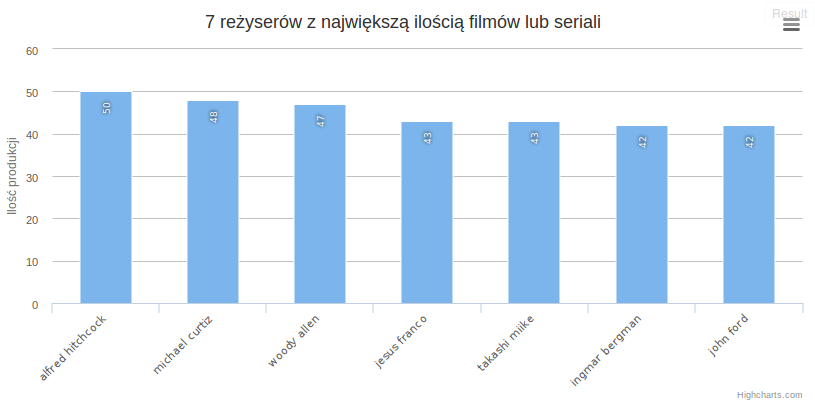
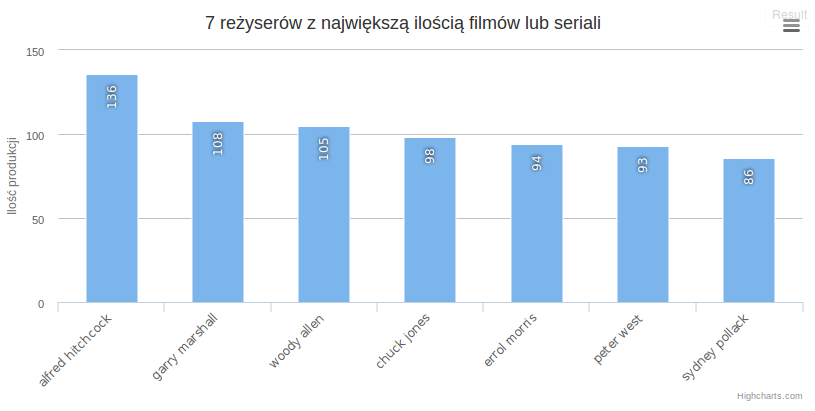
fixed 2nd aggregation

diff --git a/agg2.js b/agg2.js
@@ -1,7 +1,16 @@
 var connection = new Mongo();
 var db = connection.getDB('getglue');
 
-var match = { $match: {"modelName": "movies" || "tv_shows", $and: [{"director": {$ne: "not available"}}, {"director": {$ne: "various directors"}}]} };
+var match = {
+	$match: {
+		$or: [{"modelName": "movies"}, {"modelName": "tv_shows"}],
+		$and: [
+			{"director": {$ne: "not available"}},
+			{"director": {$ne: "various directors"}},
+			{"director": {$ne: null}}
+		]
+	}
+};
 var group1 = { $group: {"_id": {"director": "$director", "title": "$title"}, "total": {$sum: 1}} };
 var group2 = { $group: {"_id": "$_id.director", "total": {$sum: 1}} };
 var sort = { $sort: {total: -1} };

diff --git a/agg2.php b/agg2.php
@@ -2,31 +2,39 @@
 
 $connection = new MongoClient;
 $collection = $connection -> selectDB("getglue") -> selectCollection("gg");
+MongoCursor::$timeout = -1;
 
-$out = $collection -> aggregate(
-   array(
-      '$match' => array('modelName' => array('$or' => array('modelName' => 'movies', 'modelName' => 'tv_shows')))
-   ),
-   array(
-      '$group' => array(
-         '_id' => array('dir' => '$director', 'id': '$title'),
-         'total' => array('$sum' => 1)
+$match = array(
+   '$match' => array(
+      '$or' => array(
+         array('modelName' => 'movies'),
+         array('modelName' => 'tv_shows')
+      ),
+      '$and' => array(
+         array('director' => array('$ne' => 'not available')),
+         array('director' => array('$ne' => 'various directors')),
+         array('director' => array('$ne' => null))
       )
-   ),
-   array(
-      '$group' => array(
-         '_id' => '$_id.dir',
-         'total' => array('$sum' => 1)
-      )
-   ),
-   array(
-   	'sort' => array('$total' => -1)
-   ),
-   array(
-   	'limit' => 7
    )
 );
+$group1 = array(
+   '$group' => array(
+      '_id' => array('director' => '$director', 'title' => '$title'),
+      'total' => array('$sum' => 1)
+   )
+);
+$group2 = array(
+   '$group' => array(
+      '_id' => '$_id.director',
+      'total' => array('$sum' => 1)
+   )
+);
+$sort = array('$sort' => array('total' => -1));
+$limit = array('$limit' => 7);
+$pipeline = array($match, $group1, $group2, $sort, $limit);
 
-echo json_encode($out);
+$out = $collection -> aggregate($pipeline);
+
+echo json_encode($out, JSON_PRETTY_PRINT);
 
 ?>

diff --git a/README.md b/README.md
@@ -7,7 +7,7 @@
 
 #Wstęp
 
-Plik z danymi: [GetGlue and Timestamped Event Data](http://getglue-data.s3.amazonaws.com/getglue_sample.tar.gz)
+Plik z danymi: [GetGlue and Timestamped Event Data](http://getglue-data.s3.amazonaws.com/getglue_sample.tar.gz)<br>
 Wykresy wygenerowane za pomocą [Highcharts](http://www.highcharts.com)
 
 Import danych do bazy:
@@ -99,7 +99,16 @@ Wynik
 7 reżyserów z największą ilością filmów lub seriali<br>
 [JS](https://github.com/psynowczyk/tnosql2/blob/master/agg2.js)
 ```js
-var match = { $match: {"modelName": "movies" || "tv_shows", $and: [{"director": {$ne: "not available"}}, {"director": {$ne: "various directors"}}]} };
+var match = {
+	$match: {
+		$or: [{"modelName": "movies"}, {"modelName": "tv_shows"}],
+		$and: [
+			{"director": {$ne: "not available"}},
+			{"director": {$ne: "various directors"}},
+			{"director": {$ne: null}}
+		]
+	}
+};
 var group1 = { $group: {"_id": {"director": "$director", "title": "$title"}, "total": {$sum: 1}} };
 var group2 = { $group: {"_id": "$_id.director", "total": {$sum: 1}} };
 var sort = { $sort: {total: -1} };
@@ -115,29 +124,36 @@ var results = db.gg.aggregate(
 ```
 [PHP](https://github.com/psynowczyk/tnosql2/blob/master/agg2.php)
 ```php
-$out = $collection -> aggregate(
-   array(
-      '$match' => array('modelName' => array('$or' => array('modelName' => 'movies', 'modelName' => 'tv_shows')))
-   ),
-   array(
-      '$group' => array(
-         '_id' => array('dir' => '$director', 'id': '$title'),
-         'total' => array('$sum' => 1)
+$match = array(
+   '$match' => array(
+      '$or' => array(
+         array('modelName' => 'movies'),
+         array('modelName' => 'tv_shows')
+      ),
+      '$and' => array(
+         array('director' => array('$ne' => 'not available')),
+         array('director' => array('$ne' => 'various directors')),
+         array('director' => array('$ne' => null))
       )
-   ),
-   array(
-      '$group' => array(
-         '_id' => '$_id.dir',
-         'total' => array('$sum' => 1)
-      )
-   ),
-   array(
-   	'sort' => array('$total' => -1)
-   ),
-   array(
-   	'limit' => 7
    )
 );
+$group1 = array(
+   '$group' => array(
+      '_id' => array('director' => '$director', 'title' => '$title'),
+      'total' => array('$sum' => 1)
+   )
+);
+$group2 = array(
+   '$group' => array(
+      '_id' => '$_id.director',
+      'total' => array('$sum' => 1)
+   )
+);
+$sort = array('$sort' => array('total' => -1));
+$limit = array('$limit' => 7);
+$pipeline = array($match, $group1, $group2, $sort, $limit);
+
+$out = $collection -> aggregate($pipeline);
 ```
 Wynik
 ```js
@@ -145,45 +161,45 @@ Wynik
 	"result" : [
 		{
 			"_id" : "alfred hitchcock",
-			"total" : 50
+			"total" : 136
 		},
 		{
-			"_id" : "michael curtiz",
-			"total" : 48
+			"_id" : "garry marshall",
+			"total" : 108
 		},
 		{
 			"_id" : "woody allen",
-			"total" : 47
+			"total" : 105
 		},
 		{
-			"_id" : "jesus franco",
-			"total" : 43
+			"_id" : "chuck jones",
+			"total" : 98
 		},
 		{
-			"_id" : "takashi miike",
-			"total" : 43
+			"_id" : "errol morris",
+			"total" : 94
 		},
 		{
-			"_id" : "ingmar bergman",
-			"total" : 42
+			"_id" : "peter west",
+			"total" : 93
 		},
 		{
-			"_id" : "john ford",
-			"total" : 42
+			"_id" : "sydney pollack",
+			"total" : 86
 		}
 	],
 	"ok" : 1
 }
 ```
-| Reżyser                                       | Ilość dzieł |
-|-----------------------------------------------|-------------|
-| alfred hitchcock                              | 50          |
-| michael curtiz                                | 48          |
-| woody allen                                   | 47          |
-| jesus franco                                  | 43          |
-| takashi miike                                 | 43          |
-| ingmar bergman                                | 42          |
-| john ford                                     | 42          |
+| Reżyser                                       | Ilość produkcji |
+|-----------------------------------------------|-----------------|
+| alfred hitchcock                              | 136             |
+| garry marshall                                | 108             |
+| woody allen                                   | 105             |
+| chuck jones                                   | 98              |
+| errol morris                                  | 94              |
+| peter west                                    | 93              |
+| sydney pollack                                | 86              |
 ![alt text](https://github.com/psynowczyk/tnosql2/blob/master/img2.png "")
 
 #Agregacja 3
